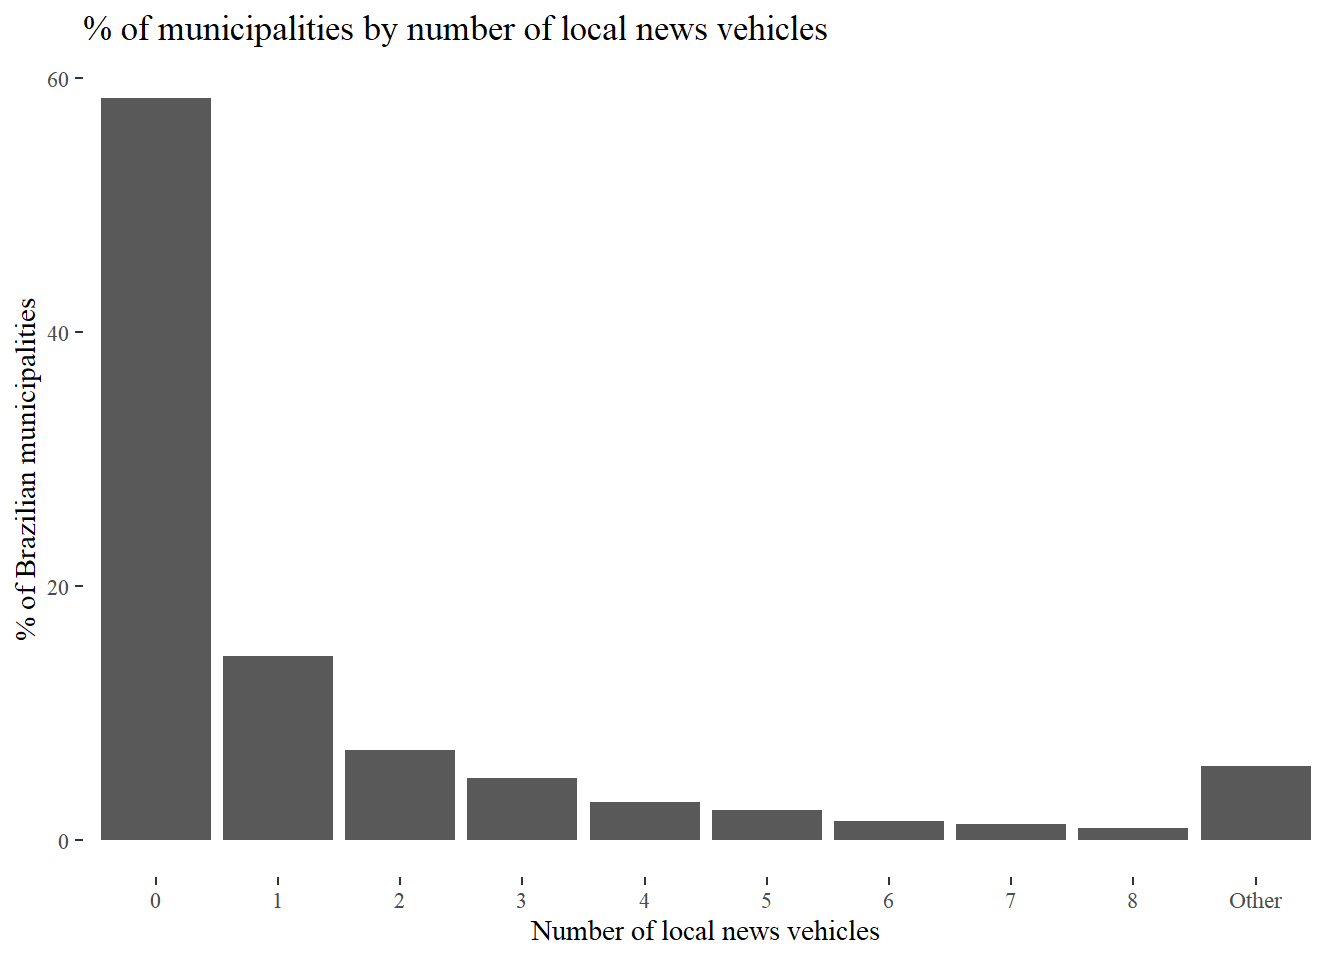
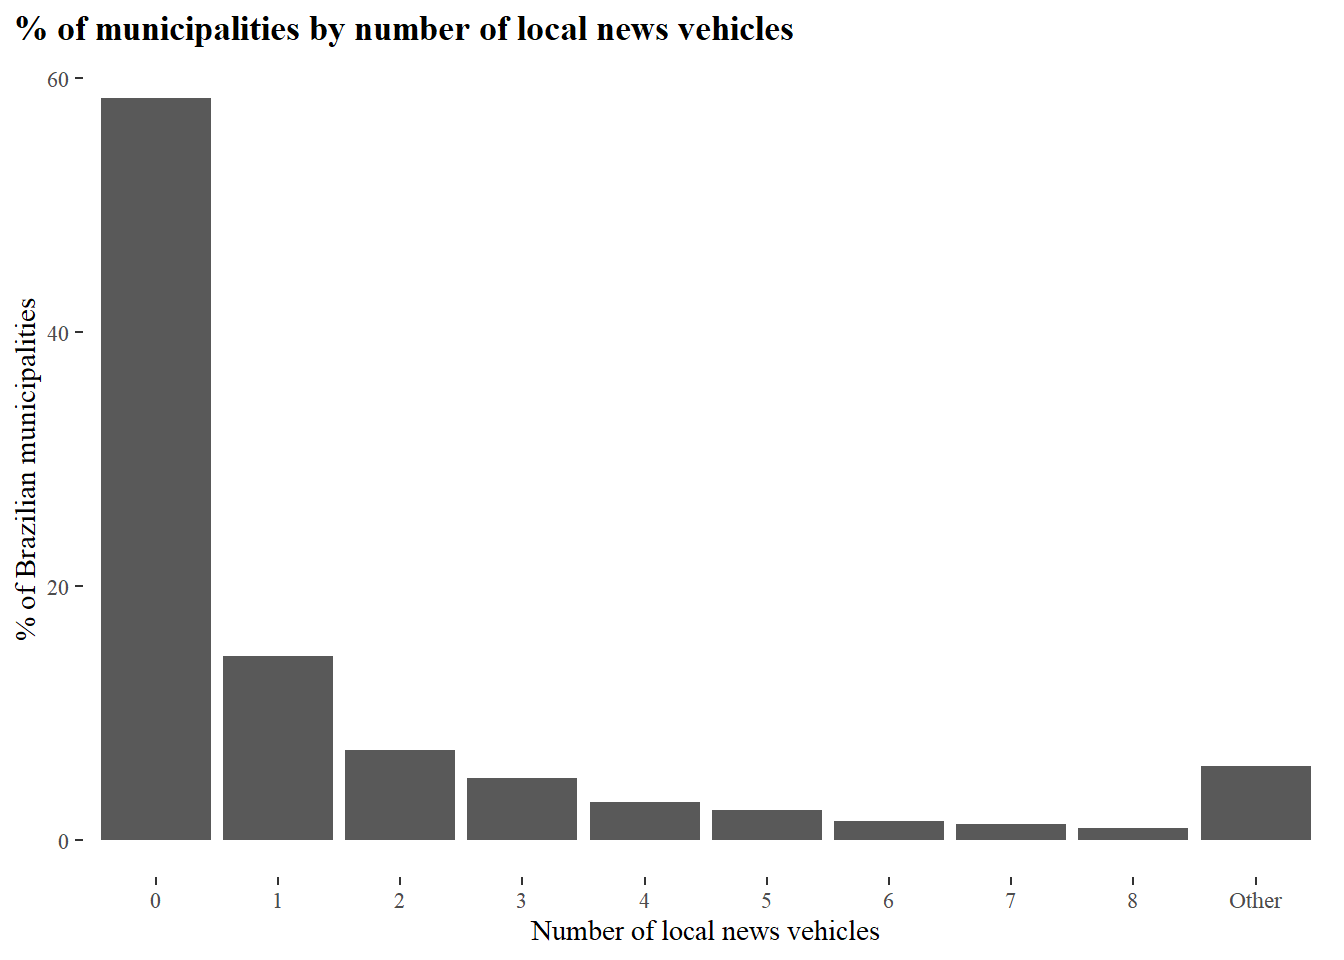
Final touchs Atlas da Noticia post

Changed region(s): [[0.0, 0.0, 0.625, 0.0625]]

diff --git a/content/post/2021-05-19-brazilian-news-atlas-and-electoral-results/index.html b/content/post/2021-05-19-brazilian-news-atlas-and-electoral-results/index.html
@@ -1,14 +1,14 @@
 ---
 title: Brazilian News Atlas and Local Elections
 author: Yuri Lucatelli Taba
-date: '2021-05-19'
+date: '2021-06-16'
 slug: brazilian-news-atlas-and-local-elections
 categories: []
 tags: []
 subtitle: ''
 summary: ''
 authors: []
-lastmod: '2021-05-19T11:46:44-03:00'
+lastmod: '2021-06-16T11:46:44-03:00'
 featured: no
 image:
   caption: ''
@@ -22,15 +22,18 @@ projects: []
 
 <div id="introduction" class="section level2">
 <h2>Introduction</h2>
-<p>This project consists in an Exploratory Data Analysis. The main objective here is to integrate data from <em>Atlas da Notícia</em>, a survey of local journalistic vehicles, with data from local Brazilian elections.</p>
-<p><em>Atlas da Notícia</em> is an initiative from <a href="https://www.projor.org.br/">Projor</a> (Institute for Journalism Development) with <a href="https://voltdata.info/">Volt Data Lab</a>.</p>
-<p>We are interested in evaluate electoral outcomes from the so-called <em>news deserts</em>, municipalities without journalistic coverage by any specific vehicle based in the city. They are 58.4% of Brazilian cities, and are the home for 18% of total population.</p>
-<p>The theorethical implications in electoral politics from these <em>news deserts</em> are plenty, we could hypothesize about electoral campaigns and develop an argument to evaluate the effectiveness of campaigns in a context where parties and candidates control all the content produced about them (except negative campaigns conducted by its adversaries, of course). But, our goal is more analitical than theoretical (that is, we are focusing in Exploratory Data Analysis, not in Political Science), so we will focus on an outcome easily calculated and that do not depend upon major theorical interpretations: the Effective Number of Parties in Votes (ENPV), which calculates the degree of party system fragmentation from any electoral process.</p>
+<p>In this post, we are interested in evaluate electoral outcomes from the so-called <em>news deserts</em>, municipalities without journalistic coverage by any specific vehicle based in the city. They are 58.4% of Brazilian cities, and are the home for 18% of the total population.</p>
+<p>We use data from <em>Atlas da Notícia</em>, a <a href="https://www.projor.org.br/">Projor</a> (Institute for Journalism Development) initiative with <a href="https://voltdata.info/">Volt Data Lab</a>.</p>
+<p>The theorethical implications for electoral politics coming from these <em>news deserts</em> are plenty, we could hypothesize about electoral campaigns to evaluate the effectiveness of campaigns in a context where parties and candidates control all the content produced about them (except negative campaigns conducted by its adversaries, of course). But, our goal is more analitical than theoretical (that is, we are focusing in Exploratory Data Analysis, not in Political Science), so we will focus on an outcome easily calculated and that do not depend upon major theorical interpretations: the Effective Number of Parties in Votes (ENPV), which calculates the degree of party system fragmentation from any electoral process.</p>
+</div>
+<div id="calling-packages" class="section level2">
+<h2>Calling packages</h2>
 <pre class="r"><code>library(tidyverse)
 library(janitor)
 library(stringr)
 library(knitr)
 library(ggthemes)
+library(ggpubr)
 library(electionsBR)
 library(cepespR)
 library(newsatlasbr)</code></pre>
@@ -270,11 +273,11 @@ rm(atlas, cod_tse_ibge, colunas, fragmentacao,
 <pre class="r"><code>atlas_enpv |&gt;
   visdat::vis_dat()</code></pre>
 <p><img src="{{< blogdown/postref >}}index_files/figure-html/unnamed-chunk-9-1.png" width="672" /></p>
-<p>It seems we only have missing values for Human Development Index’s measures. We will come back to it later.</p>
+<p>It seems we only have missing values for Human Development Index’s measures.</p>
 </div>
 <div id="analysis" class="section level2">
 <h2>Analysis</h2>
-<p>As said before, we will focus on <em>news deserts</em> - places without local news organization at all. This is an important issue because almost 60% of all municipalities are included in this category.</p>
+<p>As said, we will focus on <em>news deserts</em> - places without local news organization at all. This is an important issue because almost 60% of all municipalities are included in this category.</p>
 <pre class="r"><code>atlas_enpv |&gt; 
   mutate(qtd_veiculos = as.factor(qtd_veiculos)) |&gt;
   count(qtd_veiculos = fct_lump(qtd_veiculos, 9)) |&gt;
@@ -282,16 +285,21 @@ rm(atlas, cod_tse_ibge, colunas, fragmentacao,
   geom_col()+
   labs(title = &quot;% of municipalities by number of local news vehicles&quot;,
        y = &quot;% of Brazilian municipalities&quot;,
-       x = &quot;Number of local news vehicles&quot;)</code></pre>
-<p><img src="{{< blogdown/postref >}}index_files/figure-html/unnamed-chunk-10-1.png" width="672" /></p>
-<p>Let’s filter out data to only deal with <em>news deserts</em>.</p>
+       x = &quot;Number of local news vehicles&quot;) + 
+  theme(plot.title.position = &quot;plot&quot;,
+        plot.title = element_text(face = &quot;bold&quot;))</code></pre>
+<p><img src="{{< blogdown/postref >}}index_files/figure-html/unnamed-chunk-10-1.png" width="672" />
+Let’s filter out data to only deal with <em>news deserts</em>.</p>
 <pre class="r"><code>desertos &lt;- atlas_enpv |&gt;
   filter(qtd_veiculos == 0)
 
 n_desertos &lt;- nrow(desertos)</code></pre>
 <p>We have now 3249 observations in our dataset.</p>
-<div id="including-district-magnitude---to-be-completed" class="section level5">
-<h5>including district magnitude - to be completed</h5>
+<div id="including-district-magnitude" class="section level3">
+<h3>Including district magnitude</h3>
+<p>An important feature of any election is the number of seats under dispute. This determines the number of “victories” parties can have.
+In Brazil, municipalities have a mininum of 9 seats in its local parliaments and a maximum of 55. This number is a function of municipality’s population size.
+We can use the <code>seats_local()</code> function from <code>electionsBR</code> package to get this information.</p>
 <pre class="r"><code>### Getting number of seats in each municipality
 
 magnitude_2020 &lt;- electionsBR::seats_local(2020)
@@ -305,6 +313,7 @@ magnitude_2020 &lt;- magnitude_2020 |&gt;
 
 desertos &lt;- desertos |&gt;  
   left_join(magnitude_2020, by = &quot;codigo_municipio&quot;)</code></pre>
+<p>What is the district magnitude of <em>news deserts</em>?</p>
 <pre class="r"><code>desertos |&gt;
   count(magnitude) |&gt;
   mutate(prop = round(n/sum(n) * 100, 2),
@@ -370,6 +379,66 @@ desertos &lt;- desertos |&gt;
 </tr>
 </tbody>
 </table>
-<p>More than 96% of news deserts have 9 or 11 seats, they are the smallest cities, because district magnitude is calculated as a function of population size.</p>
+<p>By calculating the cumulative sum of the percentage of municipalities by each district magnitude size, we see that more than 83% of all Brazilian cities that have no local news vehicle elect only 9 city councilors. We will focus on those 2727 municipalities.</p>
+<pre class="r"><code>desertos &lt;- desertos |&gt; 
+  filter(magnitude == 9)
+
+ggplot(desertos, aes(x = populacao_2020, y = &quot;&quot;)) +
+  geom_boxplot(width = 0.25) +
+  geom_jitter(width = 0.05, alpha = 0.1, size = 1, color = &quot;blue&quot;) +
+  geom_vline(xintercept = 15000, lty = 2) +
+  annotate(&quot;text&quot;, label= &quot;Constitutional cut off for 9 and 11 seats&quot;, x = 22100, y = 1.5, size=3) +
+  labs(title = &quot;Distribution of municipalities by population size&quot;,
+       subtitle = &quot;Municipalities without local news vehicles and district magnitude of 9 seats&quot;,
+       y = NULL,
+       x = &quot;Population size&quot;) +
+  scale_x_continuous(breaks = seq(0, 50000, 5000)) +
+  theme(axis.text.y = element_blank(),
+        axis.ticks.y = element_blank(),
+        plot.title.position = &quot;plot&quot;,
+        plot.title = element_text(face = &quot;bold&quot;))</code></pre>
+<p><img src="{{< blogdown/postref >}}index_files/figure-html/unnamed-chunk-14-1.png" width="672" />
+The dashed line on 15,000 inhabitants marks the legal compliance with the rule establishing the number of seats. A 2009’s Constitutional Amendment ruled that municipalities with population size between 15,000 and 30,000 should have 11 seats in its local parliament. So, we need to consider that all municipalities above that threshold are not respecting the Constitution,, we will drop those non-compliers to avoid bias.</p>
+<pre class="r"><code>desertos_9c &lt;- desertos |&gt; 
+  filter(populacao_2020 &lt;= 15000)</code></pre>
 </div>
+<div id="effective-number-of-parties-in-votes-in-brazilian-news-deserts" class="section level3">
+<h3>Effective number of parties in votes in Brazilian news deserts</h3>
+<p>Now we can evaluate the outcome of interest: the effective number of parties in news deserts with district magnitude of 9 seats.</p>
+<pre class="r"><code>desertos_9c |&gt; 
+  ggplot(aes(enpv)) +
+  geom_histogram(alpha = 0.3) +
+  geom_vline(xintercept = mean(desertos_9c$enpv), lty = 2) +
+  annotate(&quot;text&quot;, label = &quot;Mean&quot;, x = 4.2, y = 330) +
+  geom_vline(xintercept = median(desertos_9c$enpv)) +
+  annotate(&quot;text&quot;, label = &quot;Median&quot;, x = 5.2, y = 315) +
+  labs(title = &quot;Distribution of effective number of parties in votes&quot;,
+       subtitle = &quot;Municipalities with less than 15k inhabitants and 9 seats in its local parliament&quot;,
+       x = &quot;Effective number of parties in votes&quot;,
+       y = &quot;Number of municipalities&quot;) +
+  theme(plot.title.position = &quot;plot&quot;,
+        plot.title = element_text(face = &quot;bold&quot;))</code></pre>
+<p><img src="{{< blogdown/postref >}}index_files/figure-html/unnamed-chunk-16-1.png" width="672" /></p>
+<p>The distribution shows that most municipalities have between 3 and 6 effective number of parties, with a mean of 4.62 and median of 4.69. It represents that despite the high party-sytem fragmentation in the Chamber of Deputies, locally the scenario is less sprayed.</p>
+<p>Finally, we can naively assess the association between population size and the effective number of parties in a bivariate regression model.</p>
+<pre class="r"><code>desertos_9c |&gt; 
+  mutate(pop_1000 = populacao_2020 / 1000) |&gt; 
+  ggplot(aes(pop_1000, enpv)) +
+  geom_point(alpha = 0.1) +
+  geom_smooth(method = &quot;lm&quot;, se = FALSE) +
+  stat_regline_equation() +
+  stat_cor(label.y = 10, aes(label = paste(..rr.label.., ..p.label.., sep = &quot;~`,`~&quot;))) +
+  labs(title = &quot;Bivariate linear model&quot;,
+       subtitle = &quot;Population size on ENPV&quot;,
+       x = &quot;Population size (by 1000)&quot;,
+       y = &quot;Effective number of parties&quot;) +
+  theme(plot.title.position = &quot;plot&quot;,
+        plot.title = element_text(face = &quot;bold&quot;))</code></pre>
+<p><img src="{{< blogdown/postref >}}index_files/figure-html/unnamed-chunk-17-1.png" width="672" /></p>
+<p>The plot above shows that as population size increases, the effective number of parties in votes increases as well. This association here is not causally identified as we are not considering sources of omitted variable bias. But we can say that the increase of the population size by 1,000 is naively associated with a increase of 0.11 in the effective number of parties index. However, the R² measure indicates that only 6% of the variation in ENPV is explained by population size.</p>
+</div>
+</div>
+<div id="final-thoughts" class="section level2">
+<h2>Final thoughts</h2>
+<p>In this first effort to analyze data from <em>Atlas da Notícia</em> we linked it with electoral data and tried to have a closer look at <em>news deserts</em>. As said before, this was just an Exploratory Data Analysis and further investigation must be done to evaluate the political consequences of these deserts.</p>
 </div>

diff --git a/content/authors/admin/_index.md b/content/authors/admin/_index.md
@@ -4,7 +4,7 @@ education:
   courses:
   - course: PhD in Political Science
     institution: Universidade de São Paulo
-    year: 2021 -
+    year: 2021 - Present
   - course: MA in Political Science
     institution: Universidade de São Paulo
     year: 2019 - 2021
@@ -15,8 +15,8 @@ email: "yuriltaba@gmail.com"
 highlight_name: false
 interests:
 - Data Science
-- Political Institutions
 - Causal Inference
+- Political Institutions
 organizations:
 - name: Universidade de São Paulo
   url: http://dcp.fflch.usp.br/
@@ -37,6 +37,6 @@ superuser: true
 title: Yuri Lucatelli Taba
 ---
 
-I am a PhD student in Political Science interested in data analysis and in generating meaningful insights from it. I have experience as a Demand Planning Analyst and as Research Assistant. Working mostly with R, but currently learning SQL and Python.
+Political Science PhD student interested in data analysis and in generating meaningful insights from it. I have experience in business as a Demand Planning Analyst and in academia as a Research Assistant. Working mostly with R, but currently learning SQL and Python.
 
 
